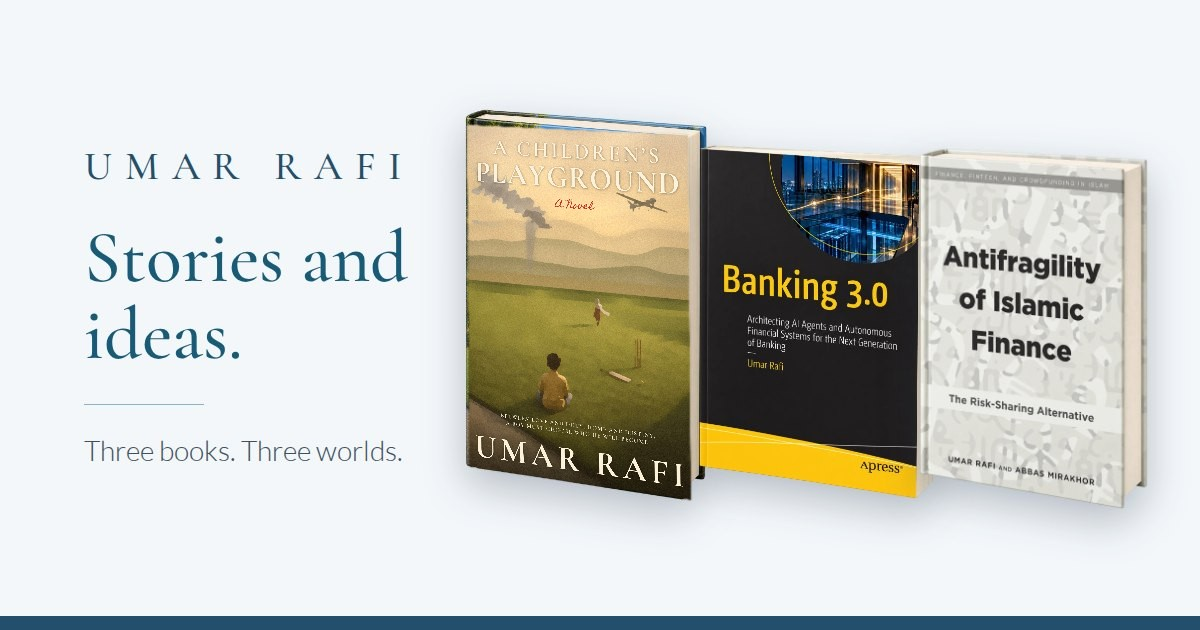
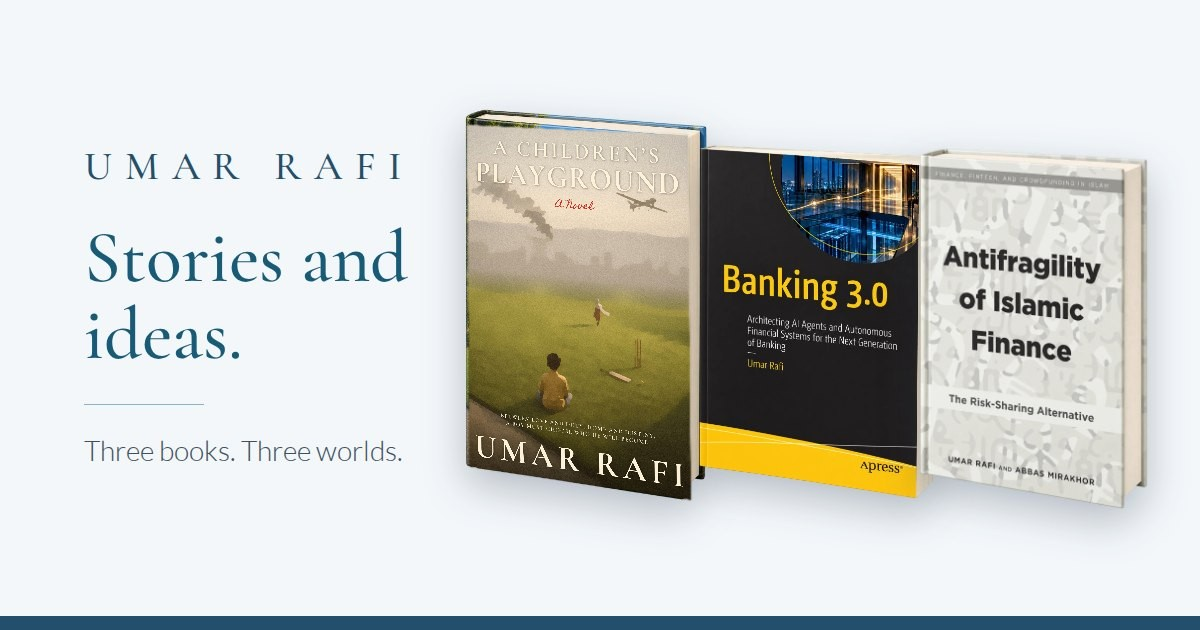
A Children's Playground: chosen cover (open lawn, faded skyline)
Claude-Session: https://claude.ai/code/session_01NJvoN1pUMfYqd9199F7f1B

Changed region(s): [[0.37, 0.181, 0.5858, 0.5127]]

diff --git a/books.html b/books.html
@@ -139,7 +139,7 @@ html body.books-layout .book-gallery-card .book-description-button{margin-top:au
 
 
 
-<main class="books-page books-gallery-page"><header class="books-page-heading"><a class="identity-return" href="index.html#home-roles">← Back to Home</a><p class="identity-context">Author</p><h1>Stories and ideas.</h1><div class="about-rule"></div><p class="books-lead">Three books. Three worlds.</p></header><div class="book-gallery"><article class="book-gallery-card"><button class="book-graphic-button" type="button" data-book="a-childrens-playground" aria-controls="description-a-childrens-playground" aria-expanded="false" aria-haspopup="dialog" aria-label="Read about A Children’s Playground"><img src="images/books/a-childrens-playground-mockup.webp?v=golden" alt="A Children’s Playground book mockup" width="1024" height="1536"></button><p class="meta">LITERARY FICTION · SUMMER 2027</p><h2>A Children’s Playground</h2><button class="book-description-button" type="button" data-book="a-childrens-playground" aria-controls="description-a-childrens-playground" aria-expanded="false" aria-haspopup="dialog">About the book</button></article><article class="book-gallery-card"><button class="book-graphic-button" type="button" data-book="banking-3" aria-controls="description-banking-3" aria-expanded="false" aria-haspopup="dialog" aria-label="Read about Banking 3.0"><img src="images/books/banking-3-mockup.webp" alt="Banking 3.0 book mockup" width="1042" height="1510"></button><p class="meta">TECHNOLOGY · DECEMBER 2026</p><h2>Banking 3.0</h2><button class="book-description-button" type="button" data-book="banking-3" aria-controls="description-banking-3" aria-expanded="false" aria-haspopup="dialog">About the book</button></article><article class="book-gallery-card"><button class="book-graphic-button" type="button" data-book="antifragility" aria-controls="description-antifragility" aria-expanded="false" aria-haspopup="dialog" aria-label="Read about Antifragility of Islamic Finance"><img src="images/books/antifragility-mockup.webp" alt="Antifragility of Islamic Finance book mockup" width="1024" height="1536"></button><p class="meta">FINANCE · PUBLISHED 2018</p><h2>Antifragility of Islamic Finance</h2><button class="book-description-button" type="button" data-book="antifragility" aria-controls="description-antifragility" aria-expanded="false" aria-haspopup="dialog">About the book</button></article></div><dialog class="book-dialog" id="book-dialog" aria-label="About the book"><button type="button" class="book-dialog-close" aria-label="Close book description">×</button><section id="description-a-childrens-playground" class="book-gallery-description" aria-labelledby="a-childrens-playground-dialog-title" hidden><img class="book-dialog-cover" src="images/books/a-childrens-playground-mockup.webp?v=golden" alt="" width="240" height="360"><div class="book-dialog-copy"><p class="meta">Forthcoming · Summer 2027</p><h2 id="a-childrens-playground-dialog-title"><a class="book-title-link" href="https://book-dev.achildrensplayground.pages.dev/">A Children’s Playground</a></h2><p>A Children’s Playground is a coming-of-age novel set against the backdrop of the Global War on Terror, exploring how love, loss, duty, and war shape the moral journey of one young man. Spanning continents, cultures, and religions in an alternate contemporary setting, it examines the timeless themes of class, family, faith, identity, and fate, asking what it truly means to become the person one is destined to be.</p><a class="text-link book-dialog-more" href="https://book-dev.achildrensplayground.pages.dev/">Read more about the book <span aria-hidden="true">→</span></a></div></section><section id="description-banking-3" class="book-gallery-description" aria-labelledby="banking-3-dialog-title" hidden><img class="book-dialog-cover" src="images/books/banking-3-mockup.webp" alt="" width="240" height="360"><div class="book-dialog-copy"><p class="meta">Forthcoming · December 2026</p><h2 id="banking-3-dialog-title"><a class="book-title-link" href="https://www.banking3.com/">Banking 3.0</a></h2><p>Banking has always been built on trust. For most of its history, that trust lived in people, and in the rules and systems built to remember what happened and to hold it true. Artificial intelligence introduces something different: software that can increasingly interpret, reason, decide, and act.</p><a class="text-link book-dialog-more" href="https://www.banking3.com/">Read more about the book <span aria-hidden="true">→</span></a></div></section><section id="description-antifragility" class="book-gallery-description" aria-labelledby="antifragility-dialog-title" hidden><img class="book-dialog-cover" src="images/books/antifragility-mockup.webp" alt="" width="240" height="360"><div class="book-dialog-copy"><p class="meta">Published · 2018</p><h2 id="antifragility-dialog-title"><a href="antifragility.html">Antifragility of Islamic Finance</a></h2><p><em>Antifragility of Islamic Finance: The Risk-Sharing Alternative</em> explains how risk-sharing, as defined under Islamic finance, makes financial systems antifragile. It highlights the benefits of 100% equity-based finance over debt-based finance.</p><a class="text-link book-dialog-more" href="antifragility.html">Read more about the book <span aria-hidden="true">→</span></a></div></section></dialog></main><footer id="contact" class="book-landing-footer"><div><a class="wordmark author-wordmark" href="index.html" aria-label="Umar Rafi home"><svg class="ur-logo" viewBox="0 0 72 74" aria-hidden="true" fill="none"><path d="M9 9v34c0 15 8 23 20 23s20-8 20-23V9" /><path d="M29 66V9h14c15 0 22 8 22 18S58 44 43 44H29m13 0 24 23" /></svg><span class="author-name">UMAR RAFI</span></a></div><p class="footer-meta"><a class="footer-blog-link" href="blog.html">Blog</a><span class="footer-sep" aria-hidden="true">·</span>© <span id="year">2026</span> Umar Rafi</p></footer>
+<main class="books-page books-gallery-page"><header class="books-page-heading"><a class="identity-return" href="index.html#home-roles">← Back to Home</a><p class="identity-context">Author</p><h1>Stories and ideas.</h1><div class="about-rule"></div><p class="books-lead">Three books. Three worlds.</p></header><div class="book-gallery"><article class="book-gallery-card"><button class="book-graphic-button" type="button" data-book="a-childrens-playground" aria-controls="description-a-childrens-playground" aria-expanded="false" aria-haspopup="dialog" aria-label="Read about A Children’s Playground"><img src="images/books/a-childrens-playground-mockup.webp?v=chosen" alt="A Children’s Playground book mockup" width="1024" height="1536"></button><p class="meta">LITERARY FICTION · SUMMER 2027</p><h2>A Children’s Playground</h2><button class="book-description-button" type="button" data-book="a-childrens-playground" aria-controls="description-a-childrens-playground" aria-expanded="false" aria-haspopup="dialog">About the book</button></article><article class="book-gallery-card"><button class="book-graphic-button" type="button" data-book="banking-3" aria-controls="description-banking-3" aria-expanded="false" aria-haspopup="dialog" aria-label="Read about Banking 3.0"><img src="images/books/banking-3-mockup.webp" alt="Banking 3.0 book mockup" width="1042" height="1510"></button><p class="meta">TECHNOLOGY · DECEMBER 2026</p><h2>Banking 3.0</h2><button class="book-description-button" type="button" data-book="banking-3" aria-controls="description-banking-3" aria-expanded="false" aria-haspopup="dialog">About the book</button></article><article class="book-gallery-card"><button class="book-graphic-button" type="button" data-book="antifragility" aria-controls="description-antifragility" aria-expanded="false" aria-haspopup="dialog" aria-label="Read about Antifragility of Islamic Finance"><img src="images/books/antifragility-mockup.webp" alt="Antifragility of Islamic Finance book mockup" width="1024" height="1536"></button><p class="meta">FINANCE · PUBLISHED 2018</p><h2>Antifragility of Islamic Finance</h2><button class="book-description-button" type="button" data-book="antifragility" aria-controls="description-antifragility" aria-expanded="false" aria-haspopup="dialog">About the book</button></article></div><dialog class="book-dialog" id="book-dialog" aria-label="About the book"><button type="button" class="book-dialog-close" aria-label="Close book description">×</button><section id="description-a-childrens-playground" class="book-gallery-description" aria-labelledby="a-childrens-playground-dialog-title" hidden><img class="book-dialog-cover" src="images/books/a-childrens-playground-mockup.webp?v=chosen" alt="" width="240" height="360"><div class="book-dialog-copy"><p class="meta">Forthcoming · Summer 2027</p><h2 id="a-childrens-playground-dialog-title"><a class="book-title-link" href="https://book-dev.achildrensplayground.pages.dev/">A Children’s Playground</a></h2><p>A Children’s Playground is a coming-of-age novel set against the backdrop of the Global War on Terror, exploring how love, loss, duty, and war shape the moral journey of one young man. Spanning continents, cultures, and religions in an alternate contemporary setting, it examines the timeless themes of class, family, faith, identity, and fate, asking what it truly means to become the person one is destined to be.</p><a class="text-link book-dialog-more" href="https://book-dev.achildrensplayground.pages.dev/">Read more about the book <span aria-hidden="true">→</span></a></div></section><section id="description-banking-3" class="book-gallery-description" aria-labelledby="banking-3-dialog-title" hidden><img class="book-dialog-cover" src="images/books/banking-3-mockup.webp" alt="" width="240" height="360"><div class="book-dialog-copy"><p class="meta">Forthcoming · December 2026</p><h2 id="banking-3-dialog-title"><a class="book-title-link" href="https://www.banking3.com/">Banking 3.0</a></h2><p>Banking has always been built on trust. For most of its history, that trust lived in people, and in the rules and systems built to remember what happened and to hold it true. Artificial intelligence introduces something different: software that can increasingly interpret, reason, decide, and act.</p><a class="text-link book-dialog-more" href="https://www.banking3.com/">Read more about the book <span aria-hidden="true">→</span></a></div></section><section id="description-antifragility" class="book-gallery-description" aria-labelledby="antifragility-dialog-title" hidden><img class="book-dialog-cover" src="images/books/antifragility-mockup.webp" alt="" width="240" height="360"><div class="book-dialog-copy"><p class="meta">Published · 2018</p><h2 id="antifragility-dialog-title"><a href="antifragility.html">Antifragility of Islamic Finance</a></h2><p><em>Antifragility of Islamic Finance: The Risk-Sharing Alternative</em> explains how risk-sharing, as defined under Islamic finance, makes financial systems antifragile. It highlights the benefits of 100% equity-based finance over debt-based finance.</p><a class="text-link book-dialog-more" href="antifragility.html">Read more about the book <span aria-hidden="true">→</span></a></div></section></dialog></main><footer id="contact" class="book-landing-footer"><div><a class="wordmark author-wordmark" href="index.html" aria-label="Umar Rafi home"><svg class="ur-logo" viewBox="0 0 72 74" aria-hidden="true" fill="none"><path d="M9 9v34c0 15 8 23 20 23s20-8 20-23V9" /><path d="M29 66V9h14c15 0 22 8 22 18S58 44 43 44H29m13 0 24 23" /></svg><span class="author-name">UMAR RAFI</span></a></div><p class="footer-meta"><a class="footer-blog-link" href="blog.html">Blog</a><span class="footer-sep" aria-hidden="true">·</span>© <span id="year">2026</span> Umar Rafi</p></footer>
 <script src="script.js?v=mobile-entrance-fix-96"></script>
 <script>
 (()=>{

diff --git a/index.html b/index.html
@@ -327,7 +327,7 @@ html.athens-fade.athens-in .art-hero>img,html.athens-fade.athens-in .athens-over
 <script id="athens-fade-js">(function(){var r=document.documentElement;if(!r.classList.contains('athens-fade'))return;var img=document.querySelector('.art-hero>img'),done=false;
 function show(){if(done)return;done=true;requestAnimationFrame(function(){r.classList.add('athens-in')})}
 if(!img||img.complete)show();else{img.addEventListener('load',show);img.addEventListener('error',show)}setTimeout(show,3000)})();</script>
-<section class="home-featured-book" aria-labelledby="featured-novel-title"><button class="painting-peek-toggle athens-game-open" type="button" aria-haspopup="dialog" aria-controls="athens-game">Explore the painting ↓</button><a class="featured-cover" href="https://book-dev.achildrensplayground.pages.dev/"><img src="images/books/a-childrens-playground-mockup.webp?v=golden" alt="A Children’s Playground book" width="1024" height="1536" loading="lazy"></a><div><h2 id="featured-novel-title"><a href="https://book-dev.achildrensplayground.pages.dev/">A Children’s Playground</a><span class="featured-inline-date"> · Coming Summer 2027</span></h2><p>Between love and duty, home and destiny, a boy must choose who he will become.</p></div><button type="button" class="notify-open featured-notify" data-notify="acp">Be the first to know →</button></section>
+<section class="home-featured-book" aria-labelledby="featured-novel-title"><button class="painting-peek-toggle athens-game-open" type="button" aria-haspopup="dialog" aria-controls="athens-game">Explore the painting ↓</button><a class="featured-cover" href="https://book-dev.achildrensplayground.pages.dev/"><img src="images/books/a-childrens-playground-mockup.webp?v=chosen" alt="A Children’s Playground book" width="1024" height="1536" loading="lazy"></a><div><h2 id="featured-novel-title"><a href="https://book-dev.achildrensplayground.pages.dev/">A Children’s Playground</a><span class="featured-inline-date"> · Coming Summer 2027</span></h2><p>Between love and duty, home and destiny, a boy must choose who he will become.</p></div><button type="button" class="notify-open featured-notify" data-notify="acp">Be the first to know →</button></section>
 <div class="home-cloud-background"><section class="home-about">
 <div class="home-about-inner">
 <h2 class="profile-heading">A life across worlds.</h2>
